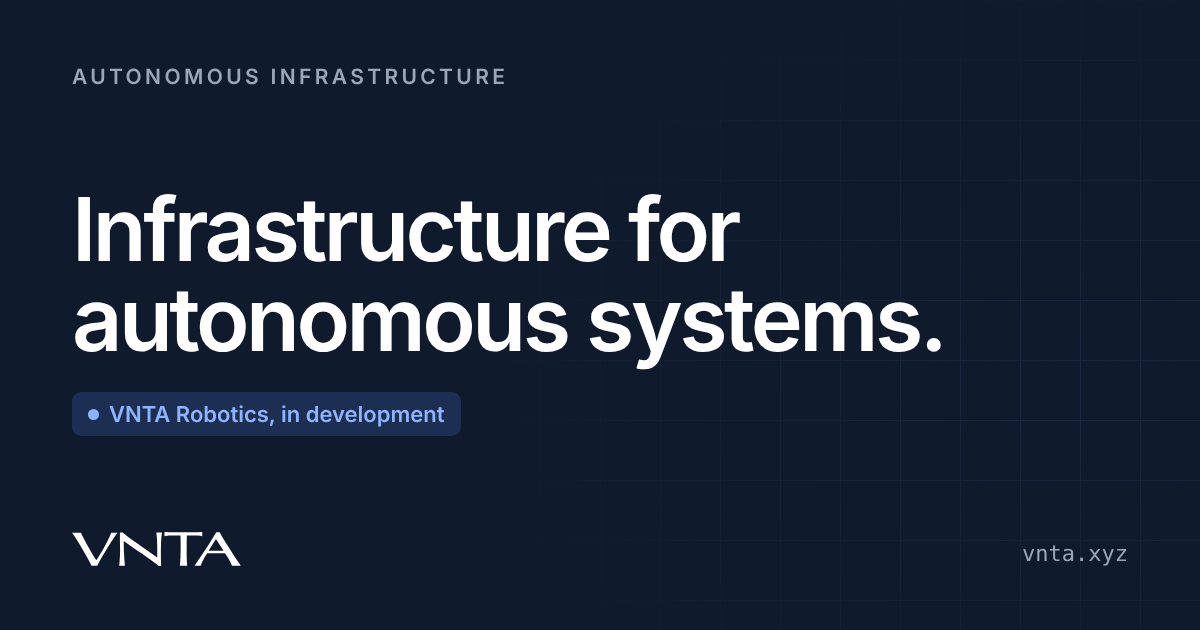
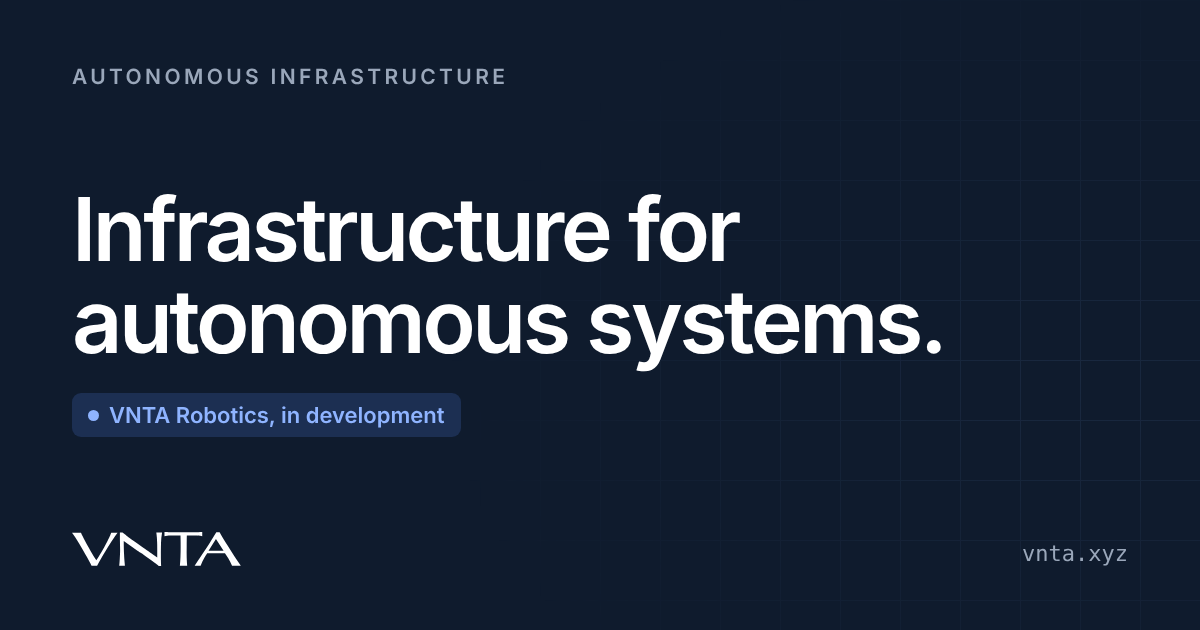
A share card for every page
Renato asked that each link look different when it is sent on WhatsApp
and the like: a Robotics link should not show the Studio's card.

- Eight cards in static/share/: home, robotics, contact, studio, and one
  for each of the four studio landing pages (with that page's own price).
  Navy and Inter for the company, graphite and the display face for the
  studio.
- Drawn from the content files by scripts/share-cards.mjs, so a changed
  headline or price is one command away from a new card.
- Each page names its card in its Seo line. og.png (the default, used by
  the small-print pages) is the home card. og-studio.png is gone.

Checked: every page's og:image points at a file that is in the build.

Claude-Session: https://claude.ai/code/session_01NPiaoRwQXoCtfjnQWd9wWx

diff --git a/src/routes/robotics/+page.svelte b/src/routes/robotics/+page.svelte
@@ -26,6 +26,8 @@
 <Seo
 	title="VNTA Robotics | Infrastructure for trusted autonomous machines"
 	shareTitle="VNTA Robotics | {robotics.positioning}"
+	image="/share/robotics.png"
+	imageAlt="VNTA Robotics. {robotics.positioning} In development."
 	description="{robotics.what} Identity, permissions, connectivity, orchestration, telemetry and audit. In development."
 	ld={[roboticsProduct(), breadcrumb('Robotics', '/robotics')]}
 />

diff --git a/src/routes/studio/[landing=landing]/+page.svelte b/src/routes/studio/[landing=landing]/+page.svelte
@@ -22,8 +22,8 @@
 <Seo
 	title={l.metaTitle}
 	shareTitle="{l.title} | VNTA Studio"
-	image="/og-studio.png"
-	imageAlt="VNTA Studio. We look at your business and see what to change. A brand studio in Dublin."
+	image="/share/studio-{l.slug}.png"
+	imageAlt="VNTA Studio. {l.title}."
 	description={l.description}
 	ld={[service(l), breadcrumb(l), faq(l.questions)]}
 />

diff --git a/src/routes/+page.svelte b/src/routes/+page.svelte
@@ -26,6 +26,7 @@
 <Seo
 	title="VNTA | Infrastructure for autonomous systems"
 	shareTitle="VNTA | {pitch.headline}"
+	image="/share/home.png"
 	description="{pitch.short} Its first system, VNTA Robotics, is a vendor-neutral control layer for robots and autonomous machines, now in development."
 	ld={[organisation(), website()]}
 />

diff --git a/src/routes/studio/+page.svelte b/src/routes/studio/+page.svelte
@@ -78,7 +78,7 @@
 <Seo
 	title="VNTA Studio | Brand design and websites, Dublin"
 	shareTitle="VNTA Studio | {pitch.headline}"
-	image="/og-studio.png"
+	image="/share/studio.png"
 	imageAlt="VNTA Studio. We look at your business and see what to change. A brand studio in Dublin."
 	{description}
 	ld={[faq(questions), portfolio()]}

diff --git a/src/lib/components/Seo.svelte b/src/lib/components/Seo.svelte
@@ -10,7 +10,7 @@
 		title,
 		description,
 		shareTitle = title,
-		image = '/og.png',
+		image = '/og.png', // the company card. Each main page passes its own from /share
 		imageAlt = 'VNTA. Infrastructure for autonomous systems.',
 		ld = []
 	}: {

diff --git a/src/routes/contact/+page.svelte b/src/routes/contact/+page.svelte
@@ -8,6 +8,8 @@
 
 <Seo
 	title="Contact | VNTA"
+	image="/share/contact.png"
+	imageAlt="Talk to VNTA."
 	description="Contact VNTA about its infrastructure for autonomous systems, or about VNTA Robotics."
 	ld={[breadcrumb('Contact', '/contact')]}
 />

diff --git a/README.md b/README.md
@@ -51,8 +51,19 @@ src/lib/content/site.ts
 The pitch, the statement, the three kinds of system and where each stands, the
 principles, the company facts, and everything about VNTA Robotics (its six
 layer parts and its ten capabilities). Change a line once and the pages, the
-search data and `/llms.txt` all follow. The headline is also drawn on the share
-card, `static/og.png`: if it changes, redraw the card.
+search data and `/llms.txt` all follow.
+
+## Share cards
+
+Every main page has its own picture for when its link is sent on WhatsApp,
+iMessage or LinkedIn: `static/share/home.png`, `robotics.png`, `contact.png`,
+`studio.png` and one per studio landing page. They are drawn from the content
+files by `node scripts/share-cards.mjs` (it needs Playwright; the script says
+how). Run it again after changing a headline, a landing page title or a price,
+and copy `share/home.png` over `static/og.png`, the default for the small-print
+pages. A page names its card in its `<Seo image="...">` line. Chat apps keep a
+link's old card for days; a link shared before a change may go on showing the
+old picture.
 
 House rules for copy, also at the top of that file:
 
